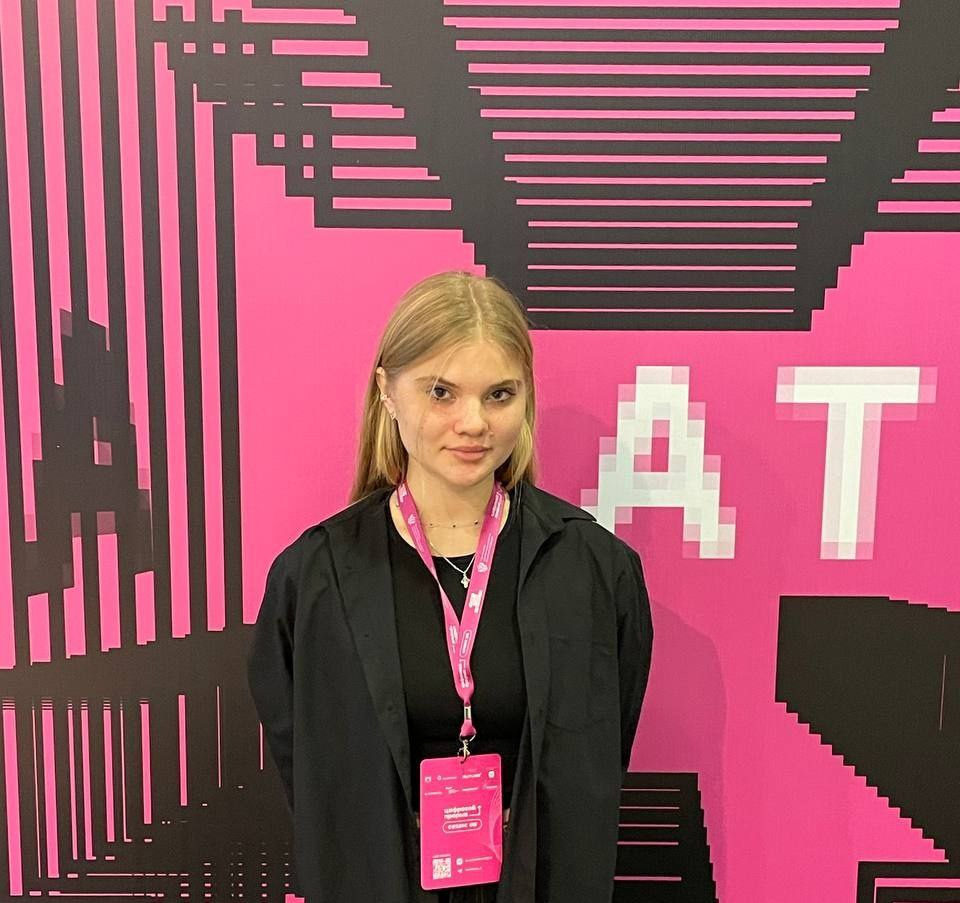
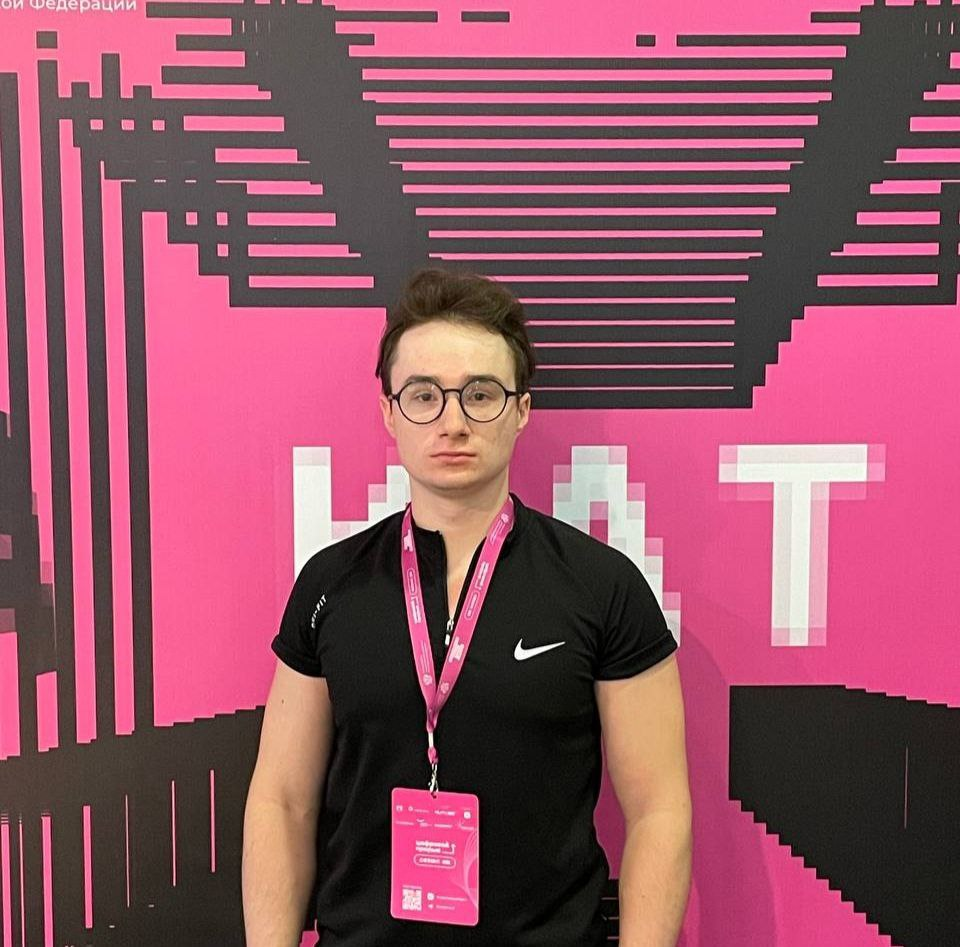
Отредачил под международный хак

diff --git a/src/Components/about/about.jsx b/src/Components/about/about.jsx
@@ -5,7 +5,6 @@ import AboutImg1 from "../../assets/about1.jpg";
 import AboutImg2 from "../../assets/about2.jpg";
 import AboutImg3 from "../../assets/about3.jpg";
 import AboutImg4 from "../../assets/about4.jpg";
-import AboutImg5 from "../../assets/about5.jpg";
 
 const About = () => {
   return (
@@ -17,11 +16,10 @@ const About = () => {
         <div className="about__data">
           <h3 className="about__title">Обо мне</h3>
           <p className="about__description">
-            Я, Муромцев Роман, в данном проекте занимался разработкой
-            telegram-бота и обучением нейронной сети. Работаю ML инженером в
-            компании Data Monsters
+            Я, Филиппова Дарья, в данном проекте являюсь системным аналитиком, а
+            также выполняю роль креатив-дизайнера.
           </p>
-          <a href="https://t.me/HeenUrpalainen" className="button button--flex">
+          <a href="https://t.me/fillipovad" className="button button--flex">
             Contact me
           </a>
         </div>
@@ -29,10 +27,10 @@ const About = () => {
         <div className="about__data">
           <h3 className="about__title">Обо мне</h3>
           <p className="about__description">
-            Я, Гаврилов Андрей, В данном проекте занимался разработкой web-сайта
-            и проектированием UI/UX дизайна. Работаю FullStack-разработчиком в компании RIT Automation
+            Я, Панаев Иван, В данном проекте занимался разработкой серверной
+            части сервиса. Работаю AppSec-инженером в компании ЦФТ.
           </p>
-          <a href="https://t.me/Graf_Gafr" className="button button--flex">
+          <a href="https://t.me/ipanaev" className="button button--flex">
             Contact me
           </a>
         </div>
@@ -40,25 +38,14 @@ const About = () => {
         <div className="about__data">
           <h3 className="about__title">Обо мне</h3>
           <p className="about__description">
-            Я, Сергеева Анна, в данном проекте выполняю роль
-            креатив-маркетолога. Работаю аналитиком в компании Devlniside.
+            Я, Глебов Лев, в данном проекте занимался обучением нейронной сети.
+            Работаю ML инженером в компании DoubleCheck.
           </p>
-          <a href="https://t.me/Nyutaser" className="button button--flex">
+          <a href="https://t.me/mo_n1k" className="button button--flex">
             Contact me
           </a>
         </div>
         <img src={AboutImg4} alt="" className="about__img" />
-        <div className="about__data">
-          <h3 className="about__title">Обо мне</h3>
-          <p className="about__description">
-            Я, Печёркина Алёна, в данном проекте выполняю роль
-            креатив-дизайнера. Работаю аналитиком в Devlnside второй год.
-          </p>
-          <a href="https://t.me/alllyonss" className="button button--flex">
-            Contact me
-          </a>
-        </div>
-        <img src={AboutImg5} alt="" className="about__img" />
         <div className="about__data">
           <h3 className="about__title">Обо мне</h3>
           <p className="about__description">

diff --git a/src/Components/services/services.jsx b/src/Components/services/services.jsx
@@ -104,6 +104,49 @@ const Services = () => {
               </div>
             </div>
           </div>
+
+          <div className="services__content">
+            <div>
+              <i className="uil uil-web-grid services__icon"></i>
+              <h3 className="services__title">
+              Интеллектуальный <br /> ассистент методиста
+              </h3>
+            </div>
+
+            <span className="services__button" onClick={() => toggleTab(1)}>
+              View More
+              <i className="uil uil-arrow-right services__button-icon"></i>
+            </span>
+
+            <div>
+              <div
+                className={
+                  toggleState === 1
+                    ? "services__modal1 active__modal"
+                    : "services__modal"
+                }
+              >
+                <div className="services__modal-content">
+                  <i
+                    onClick={() => toggleTab(0)}
+                    className="uil uil-times services__modal-close"
+                  ></i>
+                  <h3 className="services__modal-title">HR-бот</h3>
+                  <p className="services__modal-description">
+                    Веб сервис, предоставляющий краткие выжимки с глоссарием методистам  
+                  </p>
+                  <p className="services__modal-description">
+                    <QRCode
+                      className="services__qr"
+                      value="https://web.telegram.org/a/#6538637679"
+                      viewBox={`0 0 256 256`}
+                    />
+                  </p>
+                  <p className="services__modal-description">QR-code</p>
+                </div>
+              </div>
+            </div>
+          </div>
         </div>
       </section>
     </div>

diff --git a/src/Components/home/Data.jsx b/src/Components/home/Data.jsx
@@ -4,7 +4,7 @@ const Data = () => {
   return (
     <div className="home__data">
       <h1 className="home__title">
-        Enigma AI
+        Красивое название
         <svg
           width="36"
           height="36"
@@ -58,7 +58,7 @@ const Data = () => {
 
       <h3 className="home__subtitle">IT-DEV</h3>
       <p className="home__description">
-        Мы команда Enigma AI, занимающаяся разработкой сервисов с использованием
+        Мы команда Красивое название, занимающаяся разработкой сервисов с использованием
         ИИ
       </p>
 

diff --git a/src/Components/contact/Contact.jsx b/src/Components/contact/Contact.jsx
@@ -34,7 +34,7 @@ const Contact = () => {
   return (
     <section className="contact section" id="contact">
       <h2 className="section__title">Get in touch</h2>
-      <span className="section__subtitle">Contact Enigma AI</span>
+      <span className="section__subtitle">Contact Красивое название</span>
 
       <div className="contact__container container grid">
         <div className="contact__content">

diff --git a/public/index.html b/public/index.html
@@ -6,7 +6,7 @@
     <meta name="viewport" content="width=device-width, initial-scale=1" />
     <link href='https://unpkg.com/boxicons@2.1.4/css/boxicons.min.css' rel='stylesheet'>
     <link rel="stylesheet" href="https://unicons.iconscout.com/release/v4.0.8/css/line.css">
-    <title>Enigma AI</title>
+    <title>Красивое название</title>
   </head>
   <body>
     <div id="root"></div>

diff --git a/src/Components/header/header.jsx b/src/Components/header/header.jsx
@@ -7,7 +7,7 @@ const Header = () => {
     <header className="header">
       <nav className="nav container">
         <a href="index.html" className="nav__logo">
-          Enigma AI
+          Красивое название
         </a>
         <div className={Toggle ? "nav__menu show-menu" : "nav__menu"}>
           <ul className="nav__list grid">

diff --git a/src/Components/home/home.css b/src/Components/home/home.css
@@ -60,7 +60,7 @@
 }
 
 .home__img{
-    background: url(../../assets/AIEnigmaGroupphoto.jpg);
+    background: url(../../assets/AllTeam.jpeg);
     background-repeat: no-repeat;
     background-position: center;
     background-size: cover;
